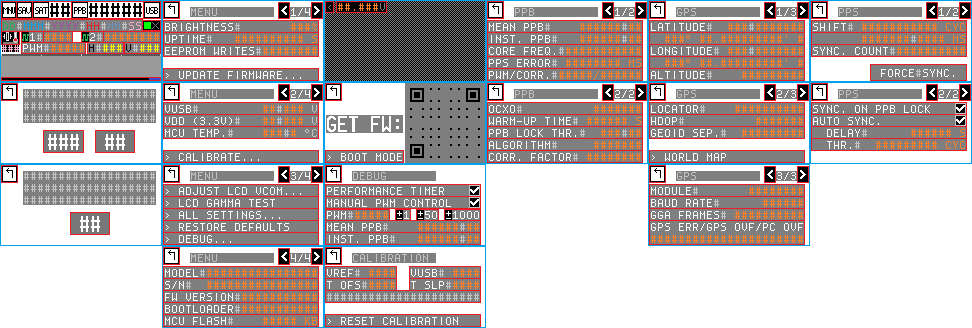
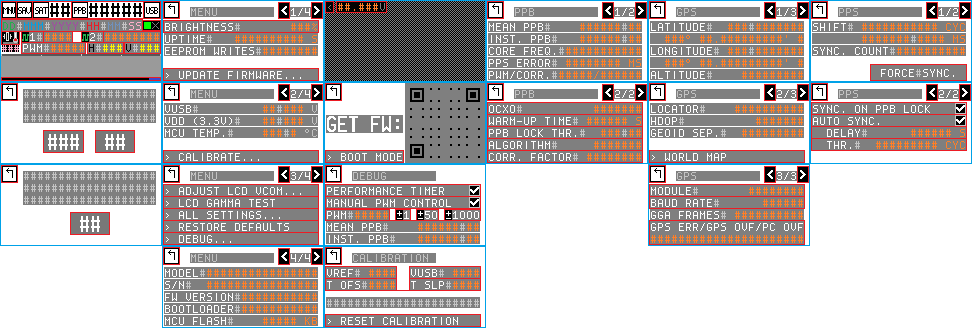
Implement ADC monitor calibration

diff --git a/src/ui.c b/src/ui.c
@@ -284,6 +284,11 @@ static UIScreen ui_main_menu_screen_page4 = {
 // Header
 static void ui_proc_calibration_label(const UIElement* element, UICommand command, int32_t encoder_step);
 // Page
+static void ui_proc_calibration_vref(const UIElement* element, UICommand command, int32_t encoder_step);
+static void ui_proc_calibration_vusb(const UIElement* element, UICommand command, int32_t encoder_step);
+static void ui_proc_calibration_t_ofs(const UIElement* element, UICommand command, int32_t encoder_step);
+static void ui_proc_calibration_t_slp(const UIElement* element, UICommand command, int32_t encoder_step);
+static void ui_proc_calibration_monitor(const UIElement* element, UICommand command, int32_t encoder_step);
 static void ui_proc_calibration_restore_defaults(const UIElement* element, UICommand command, int32_t encoder_step);
 
 static const UIElement ui_calibration_screen_elements[] = {
@@ -291,7 +296,12 @@ static const UIElement ui_calibration_screen_elements[] = {
     { 1,  1, 15, 16, UI_STYLE_FOCUSABLE, ui_proc_back_to_main      },
     { 27, 6, 84, 10, UI_STYLE_NONE,      ui_proc_calibration_label },
     // Content
-    { 1, 68, 154, 11, UI_STYLE_FOCUSABLE, ui_proc_calibration_restore_defaults },
+    { 1,  20, 70,  11, UI_STYLE_FOCUSABLE | UI_STYLE_INPUT_CAPTURING, ui_proc_calibration_vref             },
+    { 85, 20, 70,  11, UI_STYLE_FOCUSABLE | UI_STYLE_INPUT_CAPTURING, ui_proc_calibration_vusb             },
+    { 1,  32, 70,  11, UI_STYLE_FOCUSABLE | UI_STYLE_INPUT_CAPTURING, ui_proc_calibration_t_ofs            },
+    { 85, 32, 70,  11, UI_STYLE_FOCUSABLE | UI_STYLE_INPUT_CAPTURING, ui_proc_calibration_t_slp            },
+    { 1,  50, 154, 11, UI_STYLE_NONE,                                 ui_proc_calibration_monitor          },
+    { 1,  68, 154, 11, UI_STYLE_FOCUSABLE,                            ui_proc_calibration_restore_defaults },
 };
 
 UIScreen ui_calibration_screen = {
@@ -2053,31 +2063,46 @@ static void ui_proc_main_menu_update_fw(const UIElement* element, UICommand comm
     ui_proc_menu_link(element, command, encoder_step, "> Update Firmware...", &ui_update_fw_screen);
 }
 
+static void ui_proc_main_menu_vusb_impl(const UIElement* element, UICommand command, int32_t encoder_step, uint16_t* ui_cache)
+{
+    ui_proc_menu_readonly_custom_u16(element, command, encoder_step, "Vusb:",
+        ui_cache, adc_mon_vusb_mv, 14, ui_format_adc_voltage_fp2i3f_u16_8char, NULL);
+}
+
 static void ui_proc_main_menu_vusb(const UIElement* element, UICommand command, int32_t encoder_step)
 {
     static uint16_t ui_cache_adc_mon_vusb_mv = ADC_MON_VOLTAGE_NO_DATA;
-    ui_proc_menu_readonly_custom_u16(element, command, encoder_step, "Vusb:",
-        &ui_cache_adc_mon_vusb_mv, adc_mon_vusb_mv, 14, ui_format_adc_voltage_fp2i3f_u16_8char, NULL);
+    ui_proc_main_menu_vusb_impl(element, command, encoder_step, &ui_cache_adc_mon_vusb_mv);
+}
+
+static void ui_proc_main_menu_vdd_impl(const UIElement* element, UICommand command, int32_t encoder_step, uint16_t* ui_cache)
+{
+    ui_proc_menu_readonly_custom_u16(element, command, encoder_step, "Vdd (3.3V):",
+        ui_cache, adc_mon_vdda_mv, 14, ui_format_adc_voltage_fp2i3f_u16_8char, NULL);
 }
 
 static void ui_proc_main_menu_vdd(const UIElement* element, UICommand command, int32_t encoder_step)
 {
     static uint16_t ui_cache_adc_mon_vdda_mv = ADC_MON_VOLTAGE_NO_DATA;
-    ui_proc_menu_readonly_custom_u16(element, command, encoder_step, "Vdd (3.3V):",
-        &ui_cache_adc_mon_vdda_mv, adc_mon_vdda_mv, 14, ui_format_adc_voltage_fp2i3f_u16_8char, NULL);
+    ui_proc_main_menu_vdd_impl(element, command, encoder_step, &ui_cache_adc_mon_vdda_mv);
 }
 
-static void ui_proc_main_menu_temp(const UIElement* element, UICommand command, int32_t encoder_step)
+static void ui_proc_main_menu_temp_impl(const UIElement* element, UICommand command, int32_t encoder_step, int16_t* ui_cache)
 {
-    static int16_t ui_cache_adc_mon_temp_deci_c = ADC_MON_TEMP_NO_DATA;
     ui_proc_menu_readonly_custom_i16(element, command, encoder_step, "MCU Temp.:",
-        &ui_cache_adc_mon_temp_deci_c, adc_mon_temp_deci_c, 14, ui_format_adc_temperature_fp3i1f_i16_5char, NULL);
+        ui_cache, adc_mon_temp_deci_c, 14, ui_format_adc_temperature_fp3i1f_i16_5char, NULL);
 
     if (command & UICommand_Init) {
         // Draw degree sign and "C"
         ST7735_DrawImage(element->x + 20 * 7, element->y + 1, 7, 10, icon_symbol_degree_7x10);
         ST7735_WriteStringNoWrap(element->x + 21 * 7, element->y + 1, element->height - 1, "C", Font_7x10, UI_COLOR_MENU_LABEL, UI_COLOR_BG);
     }
+}
+
+static void ui_proc_main_menu_temp(const UIElement* element, UICommand command, int32_t encoder_step)
+{
+    static int16_t ui_cache_adc_mon_temp_deci_c = ADC_MON_TEMP_NO_DATA;
+    ui_proc_main_menu_temp_impl(element, command, encoder_step, &ui_cache_adc_mon_temp_deci_c);
 }
 
 static void ui_proc_main_menu_calibrate(const UIElement* element, UICommand command, int32_t encoder_step)
@@ -2182,6 +2207,113 @@ static void ui_proc_main_menu_mcu_flash(const UIElement* element, UICommand comm
 static void ui_proc_calibration_label(const UIElement* element, UICommand command, int32_t encoder_step)
 {
     ui_proc_menu_label(element, command, encoder_step, "Calibration");
+}
+
+static void ui_change_calibration_vref(int8_t* value, int32_t step)
+{
+    ui_change_setting_i8(value, step, ADC_MON_CAL_VREFINT_ADJ_MIN, ADC_MON_CAL_VREFINT_ADJ_MAX, false);
+
+    // Apply calibration immediately
+    ee_storage.calibration.adc_adj_vrefint_mv = *value;
+}
+
+static void ui_proc_calibration_vref(const UIElement* element, UICommand command, int32_t encoder_step)
+{
+    static int8_t ui_cache_calibration_vref = 0;
+    static int8_t ui_edit_calibration_vref  = 0;
+    ui_proc_menu_edit_i8(element, command, encoder_step, "Vref:",
+        &ui_cache_calibration_vref, &ui_edit_calibration_vref, &(ee_storage.calibration.adc_adj_vrefint_mv), 5, "%4d",
+        NULL, ui_change_calibration_vref);
+}
+
+static void ui_change_calibration_vusb(int8_t* value, int32_t step)
+{
+    ui_change_setting_i8(value, step, ADC_MON_CAL_VUSB_DIV_ADJ_MIN, ADC_MON_CAL_VUSB_DIV_ADJ_MAX, false);
+
+    // Apply calibration immediately
+    ee_storage.calibration.adc_adj_vusb_div_ratio = *value;
+}
+
+static void ui_proc_calibration_vusb(const UIElement* element, UICommand command, int32_t encoder_step)
+{
+    static int8_t ui_cache_calibration_vusb = 0;
+    static int8_t ui_edit_calibration_vusb  = 0;
+    ui_proc_menu_edit_i8(element, command, encoder_step, "Vusb:",
+        &ui_cache_calibration_vusb, &ui_edit_calibration_vusb, &(ee_storage.calibration.adc_adj_vusb_div_ratio), 5, "%4d",
+        NULL, ui_change_calibration_vusb);
+}
+
+static void ui_change_calibration_t_ofs(int8_t* value, int32_t step)
+{
+    ui_change_setting_i8(value, step, ADC_MON_CAL_TEMP_V25_ADJ_MIN, ADC_MON_CAL_TEMP_V25_ADJ_MAX, false);
+
+    // Apply calibration immediately
+    ee_storage.calibration.adc_adj_temp_v25_mv = *value;
+}
+
+static void ui_proc_calibration_t_ofs(const UIElement* element, UICommand command, int32_t encoder_step)
+{
+    static int8_t ui_cache_calibration_t_ofs = 0;
+    static int8_t ui_edit_calibration_t_ofs  = 0;
+    ui_proc_menu_edit_i8(element, command, encoder_step, "T OFS:",
+        &ui_cache_calibration_t_ofs, &ui_edit_calibration_t_ofs, &(ee_storage.calibration.adc_adj_temp_v25_mv), 5, "%4d",
+        NULL, ui_change_calibration_t_ofs);
+}
+
+static void ui_change_calibration_t_slp(int8_t* value, int32_t step)
+{
+    ui_change_setting_i8(value, step, ADC_MON_CAL_TEMP_SLOPE_ADJ_MIN, ADC_MON_CAL_TEMP_SLOPE_ADJ_MAX, false);
+
+    // Apply calibration immediately
+    ee_storage.calibration.adc_adj_temp_slope = *value;
+}
+
+static void ui_proc_calibration_t_slp(const UIElement* element, UICommand command, int32_t encoder_step)
+{
+    static int8_t ui_cache_calibration_t_slp = 0;
+    static int8_t ui_edit_calibration_t_slp  = 0;
+    ui_proc_menu_edit_i8(element, command, encoder_step, "T SLP:",
+        &ui_cache_calibration_t_slp, &ui_edit_calibration_t_slp, &(ee_storage.calibration.adc_adj_temp_slope), 5, "%4d",
+        NULL, ui_change_calibration_t_slp);
+}
+
+static void ui_proc_calibration_monitor(const UIElement* element, UICommand command, int32_t encoder_step)
+{
+    static const UIElement* ui_cache_active_element = NULL;
+    static union {
+        uint16_t vusb_mv;
+        uint16_t vdda_mv;
+        int16_t  temp_deci_c;
+    } ui_cache_adc_mon = { 0 };
+
+    // Get active screen
+    const UIScreen*  screen = ui_get_active_screen();
+    const UIElement* active_element = screen ? screen->focused_element : NULL;
+
+    UICommand subproc_cmd = command;
+
+    if ((command & UICommand_Init) || (active_element != ui_cache_active_element)) {
+        ui_cache_active_element = active_element;
+        subproc_cmd |= UICommand_Init;
+
+        // Erase background
+        ST7735_FillRectangle(element->x, element->y, element->width, element->height, UI_COLOR_BG);
+    }
+
+    // Run appropriate element proc
+    if (active_element != NULL) {
+        if (active_element->proc == ui_proc_calibration_vref) {
+            ui_proc_main_menu_vdd_impl(element, subproc_cmd, encoder_step, &(ui_cache_adc_mon.vdda_mv));
+        } else if (active_element->proc == ui_proc_calibration_vusb) {
+            ui_proc_main_menu_vusb_impl(element, subproc_cmd, encoder_step, &(ui_cache_adc_mon.vusb_mv));
+        } else if ((active_element->proc == ui_proc_calibration_t_ofs) || (active_element->proc == ui_proc_calibration_t_slp)) {
+            ui_proc_main_menu_temp_impl(element, subproc_cmd, encoder_step, &(ui_cache_adc_mon.temp_deci_c));
+        } else {
+            ui_default_element_proc(element, command, encoder_step);
+        }
+    } else {
+        ui_default_element_proc(element, command, encoder_step);
+    }
 }
 
 static void ui_reset_calibration_handler(UI_MsgBoxButton result)

diff --git a/src/ui_helpers.c b/src/ui_helpers.c
@@ -233,6 +233,11 @@ int32_t ui_get_adaptive_step(uint32_t value, int32_t encoder_step)
 //------------------------------------------------------------------------------
 // Standard Element Procedures
 //------------------------------------------------------------------------------
+void ui_format_i8(char* buf, size_t buf_char_count, const void* value, const char* fmt)
+{
+    snprintf(buf, buf_char_count, fmt, (unsigned int)*(const int8_t*)value);
+}
+
 void ui_format_u16(char* buf, size_t buf_char_count, const void* value, const char* fmt)
 {
     snprintf(buf, buf_char_count, fmt, *(const uint16_t*)value);
@@ -458,6 +463,80 @@ void ui_proc_menu_readonly_cstr(const UIElement* element, UICommand command, int
     }
 
     ui_default_element_proc(element, command, encoder_step);
+}
+
+void ui_proc_menu_edit_custom_i8(const UIElement* element, UICommand command, int32_t encoder_step,
+    const char* label, int8_t* ui_cache, int8_t* ui_edit, volatile int8_t* ee_setting, uint16_t value_offset,
+    void (*apply_value)(int8_t), void (*change_value)(int8_t*, int32_t), UIFormatValue format, const char* format_param)
+{
+    volatile const int8_t *value_to_draw = NULL;
+    bool is_captured = ui_is_captured(element);
+
+    if (command & UICommand_Release) {
+        // Apply changes
+        if (*ee_setting != *ui_edit) {
+            *ee_setting = *ui_edit;
+            ee_is_changed = true;
+
+            if (apply_value != NULL) {
+                apply_value(*ui_edit);
+            }
+        }
+    }
+
+    // Draw label
+    ui_draw_static_label(element, command, label, UI_COLOR_MENU_LABEL);
+
+    if (command & UICommand_Init) {
+        // Draw value
+        if (!is_captured) {
+            value_to_draw = ee_setting;
+        } else {
+            value_to_draw = ui_edit;
+        }
+    }
+
+    if ((ui_cache != NULL) && !is_captured && (*ee_setting != *ui_cache)) {
+        value_to_draw = ee_setting;
+    }
+
+    // Value edit
+    {
+        if (command & UICommand_Capture) {
+            *ui_edit = *ee_setting;
+        }
+
+        if (command & UICommand_EncoderStep) {
+            // Modify setting
+            if (change_value != NULL) {
+                change_value(ui_edit, encoder_step);
+            }
+
+            // Draw new value
+            value_to_draw = ui_edit;
+        }
+    }
+
+    // Draw value
+    if (value_to_draw) {
+        int8_t drawn_value = *value_to_draw;
+        if (ui_cache != NULL) {
+            *ui_cache = drawn_value;
+        }
+
+        ui_menu_custom_draw_value(element, value_offset, UI_COLOR_TEXT, (const void*)&drawn_value, format, format_param);
+    }
+
+    ui_default_element_proc(element, command, encoder_step);
+}
+
+void ui_proc_menu_edit_i8(const UIElement* element, UICommand command, int32_t encoder_step,
+    const char* label, int8_t* ui_cache, int8_t* ui_edit, volatile int8_t* ee_setting, uint16_t value_offset,
+    const char* fmt, void (*apply_value)(int8_t), void (*change_value)(int8_t*, int32_t))
+{
+    ui_proc_menu_edit_custom_i8(element, command, encoder_step,
+        label, ui_cache, ui_edit, ee_setting, value_offset,
+        apply_value, change_value, ui_format_i8, fmt);
 }
 
 void ui_proc_menu_edit_custom_u32(const UIElement* element, UICommand command, int32_t encoder_step,

diff --git a/src/ui_helpers.h b/src/ui_helpers.h
@@ -28,8 +28,8 @@
 void ui_format_ppb_5char(int32_t ppb_signed, char* buffer, size_t bufferSize);
 void ui_format_ppb_9char(int32_t ppb_signed, char* buffer, size_t bufferSize);
 const char* ui_get_month_name_3char(uint8_t month_num);
-void ui_format_adc_voltage_fp2i3f_8char(char* buf, size_t buf_char_count, const void* value, const char*);
-void ui_format_adc_temperature_fp3i1f_5char(char* buf, size_t buf_char_count, const void* value, const char*);
+void ui_format_adc_voltage_fp2i3f_u16_8char(char* buf, size_t buf_char_count, const void* value, const char*);
+void ui_format_adc_temperature_fp3i1f_i16_5char(char* buf, size_t buf_char_count, const void* value, const char*);
 
 //------------------------------------------------------------------------------
 // Setting Change Functions
@@ -47,6 +47,7 @@ int32_t ui_get_adaptive_step(uint32_t value, int32_t encoder_step);
 //------------------------------------------------------------------------------
 typedef void (*UIFormatValue)(char* buf, size_t buf_char_count, const void* value, const char* format_param);
 
+void ui_format_i8(char* buf, size_t buf_char_count, const void* value, const char* fmt);
 void ui_format_u16(char* buf, size_t buf_char_count, const void* value, const char* fmt);
 void ui_format_u32(char* buf, size_t buf_char_count, const void* value, const char* fmt);
 void ui_format_i32(char* buf, size_t buf_char_count, const void* value, const char* fmt);
@@ -72,6 +73,12 @@ void ui_draw_coord_dd_right_aligned(const UIElement* element, int32_t coord_deg_
 void ui_draw_coord_ddm_right_aligned(const UIElement* element, const char* nmea_coord, char coord_ns_ew);
 
 void ui_proc_menu_readonly_cstr(const UIElement* element, UICommand command, int32_t encoder_step, const char* label, const char* value);
+void ui_proc_menu_edit_custom_i8(const UIElement* element, UICommand command, int32_t encoder_step,
+    const char* label, int8_t* ui_cache, int8_t* ui_edit, volatile int8_t* ee_setting, uint16_t value_offset,
+    void (*apply_value)(int8_t), void (*change_value)(int8_t*, int32_t), UIFormatValue format, const char* format_param);
+void ui_proc_menu_edit_i8(const UIElement* element, UICommand command, int32_t encoder_step,
+    const char* label, int8_t* ui_cache, int8_t* ui_edit, volatile int8_t* ee_setting, uint16_t value_offset,
+    const char* fmt, void (*apply_value)(int8_t), void (*change_value)(int8_t*, int32_t));
 void ui_proc_menu_edit_custom_u32(const UIElement* element, UICommand command, int32_t encoder_step,
     const char* label, uint32_t* ui_cache, uint32_t* ui_edit, volatile uint32_t* ee_setting, uint16_t value_offset,
     void (*apply_value)(uint32_t), void (*change_value)(uint32_t*, int32_t), UIFormatValue format, const char* format_param);

diff --git a/src/ui_core.h b/src/ui_core.h
@@ -59,7 +59,7 @@ typedef enum {
 
 
 struct UIElement;
-typedef void (*UI_ElementProc)(const struct UIElement* element, UICommand command, int32_t encoder_step);
+typedef void (*UIElementProc)(const struct UIElement* element, UICommand command, int32_t encoder_step);
 
 typedef struct UIElement {
     const uint16_t x;
@@ -67,8 +67,8 @@ typedef struct UIElement {
     const uint16_t width;
     const uint16_t height;
 
-    const uint16_t       styles;
-    const UI_ElementProc proc;
+    const uint16_t      styles;
+    const UIElementProc proc;
 } UIElement;
 
 typedef struct {
